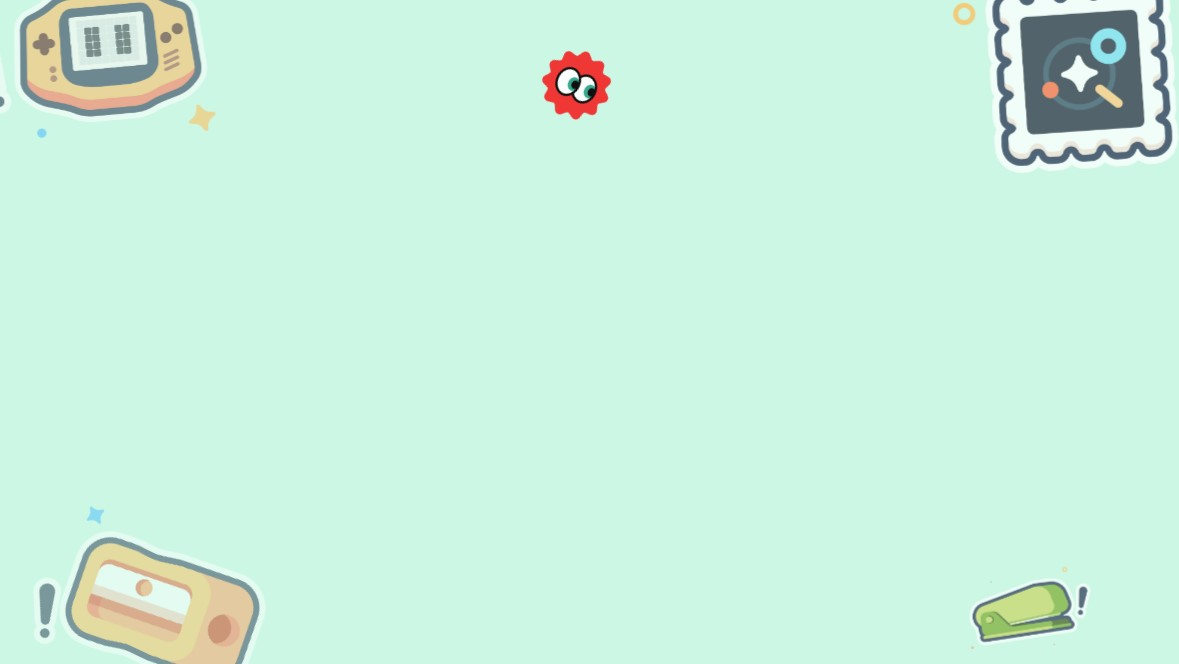
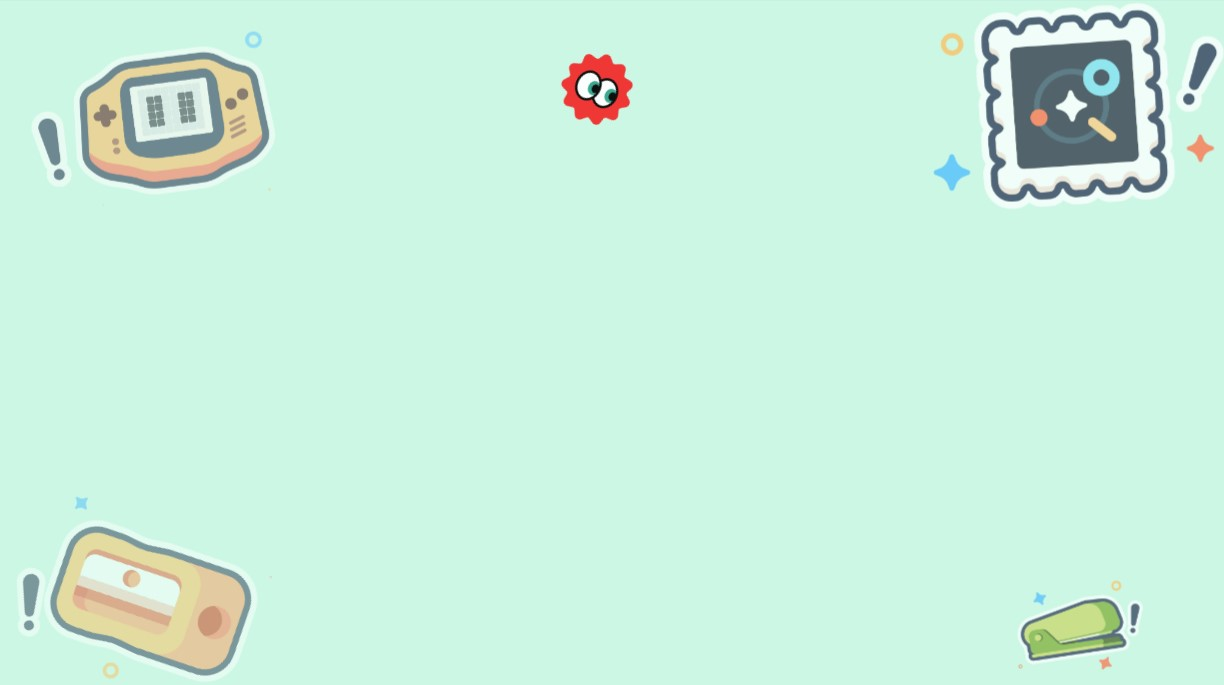
FR

diff --git a/style.css b/style.css
@@ -334,9 +334,7 @@ margin-bottom: 9px;
   align-items: center;
   position: relative;
   flex-direction: column;
-  background-color: #ccf7e4 ;
-  /* background-image: url('./img/section-bg.webp'); */
-  background-color: #318d42;
+  background-image: url('./img/Event.jpg');
   background-repeat: no-repeat;
   background-position: center center;
   background-size: cover;
